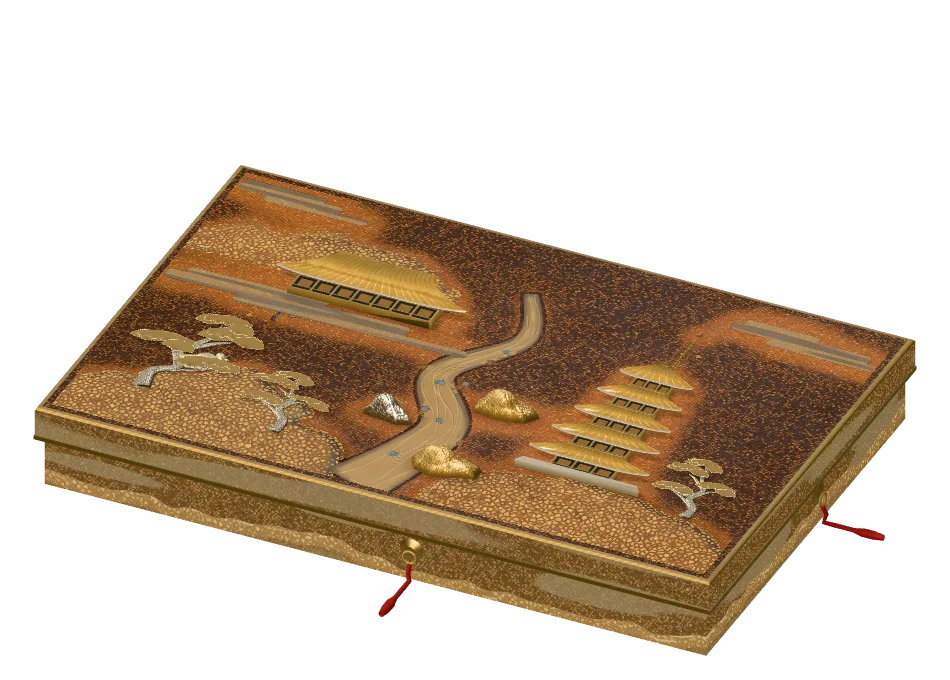
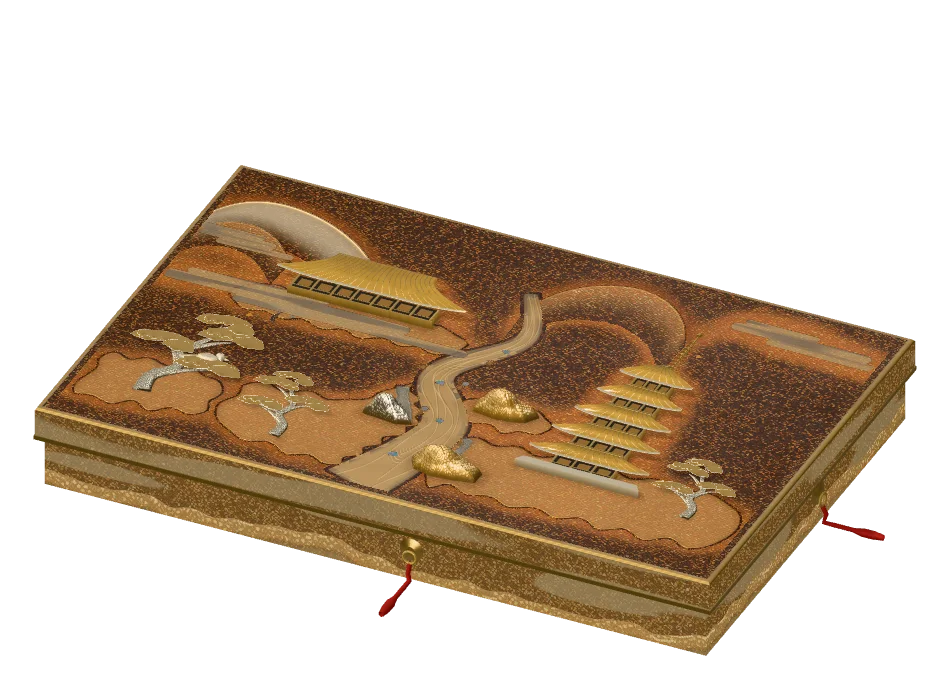
feat(plate): Minami and Ukyo rebuilt with distant mountains and shores in place of hills and the platform (nine wards, batch 2a)
Checkpoint. Known and carried into the next run: the west shore of Minami reads as scattered islands, the shore outlines ripple at an even pitch, the silver waterline in Ukyo runs past the gold shore.

diff --git a/src/studies/toji/plate/minami.js b/src/studies/toji/plate/minami.js
@@ -1,6 +1,11 @@
 // 南区・東寺. A composition, not a survey: the pagoda on its bank, the hall half lost in mist,
 // a stream between two banks, pines in the foreground. A third of the ground stays empty nashiji.
-import {MAT, hill, stream, streamEdge, suyari, rock, pagoda, hall, stampedPine as pine, bird, shell, grassTufts, silverPlum} from './vocab.js';
+// The ground (doha.js) is drawn piece by piece, every outline written here as control points:
+//   the range    three low heads at the far upper left, behind the hall (the hall's roof lies against the lacquer below the crest).
+//   the shores   a scalloped tongue under the hall, one under each pine group on the west and one broad one under the pagoda
+//                on the east, each reaching to the water; a thin silver ribbon lies along the waterline on each side.
+import {MAT, stream, streamEdge, suyari, rock, pagoda, hall, stampedPine as pine, bird, shell, grassTufts, silverPlum} from './vocab.js';
+import {mountain, tongues} from './doha.js';
 
 // The stream's own points and widths, kept here so its banks can be found again for the grass.
 const STREAM = [[[-8, -150], [22, -70], [-30, 20], [14, 110], [-26, 232]], [7, 11, 17, 25, 36]];
@@ -10,12 +15,47 @@ function bankTuft(t, side, h, n, flower = false) {
   return [x - side * 2.5, z, h, n, -side * .2, flower];
 }
 
+// The far range at the upper left, far to near. Why: the temple stands in the south of the city under a low line of hills; the lowest
+// reads as the far horizon, and the stream rises out of the foot of the near one.
+const RANGE = [
+  // 1 (blue-gold, the farthest) at the far left, beyond the hall's west end: a full arc with its peak toward the left
+  {ridge: [[-372, -122], [-358, -160], [-332, -186], [-296, -194], [-250, -184], [-206, -160], [-170, -128]], depth: 66, tone: 'blue'},
+  // 2 (gold) the tallest, right of the hall over the stream's head: the stream rises at its foot; the hall's roof lies in the saddle between 1 and 2
+  {ridge: [[0, -130], [16, -164], [44, -192], [84, -206], [122, -196], [152, -168], [170, -132]], depth: 66},
+  // 3 (gold) a small head in front of the first, at the lid's left edge
+  {ridge: [[-372, -100], [-358, -124], [-338, -142], [-312, -146], [-286, -136], [-266, -118], [-250, -100]], depth: 44},
+];
+// The shores, far to near. Each outline is written round the piece, one point per bend (sharp coves, round lobes).
+const SHORES = [
+  // west, under the hall: a long low tongue the hall stands on, ending at the water above the first bend
+  {p: [[-276, -40], [-262, -52], [-244, -56], [-224, -51], [-204, -58], [-182, -53], [-160, -60], [-136, -54], [-112, -59], [-88, -52], [-64, -57], [-44, -50], [-28, -42],
+    [-30, -28], [-36, -17], [-52, -10], [-70, -16], [-88, -8], [-108, -14], [-130, -6], [-150, -13], [-172, -5], [-194, -12], [-214, -4], [-236, -11], [-256, -6], [-272, -16], [-282, -28]], tone: 'gold', seed: 41},
+  // west, under the far pine: a round tongue off the lid's left edge, lower edge in broad waves
+  {p: [[-350, 132], [-340, 120], [-322, 124], [-304, 114], [-284, 122], [-264, 112], [-244, 120], [-226, 124], [-214, 140], [-220, 158], [-214, 176], [-228, 190],
+    [-248, 184], [-266, 198], [-288, 190], [-308, 204], [-330, 196], [-348, 200], [-354, 178], [-346, 154]], tone: 'gold', seed: 42},
+  // west, under the near pine and the grey stone: reaches up the west side of the water as a narrow arm
+  {p: [[-198, 118], [-180, 107], [-158, 114], [-134, 103], [-112, 111], [-90, 100], [-74, 90], [-68, 74], [-58, 62], [-50, 50], [-45, 46],
+    [-43, 60], [-28, 70], [-31, 80], [-17, 90], [-20, 100], [-11, 110], [-21, 120], [-17, 132], [-32, 146], [-29, 158], [-43, 170], [-40, 182], [-54, 194], [-52, 206],
+    [-68, 210], [-88, 202], [-110, 212], [-134, 200], [-158, 208], [-182, 196], [-198, 182], [-206, 160], [-196, 138]], tone: 'gold', seed: 43},
+  // the silver waterline on the west arm, laid over the gold: a hand's breadth between the gold and the water
+  {p: [[-48, 56], [-41, 68], [-36, 80], [-27, 91], [-23, 103], [-20, 112], [-30, 114], [-37, 102], [-43, 90], [-50, 78], [-56, 66], [-58, 58]], tone: 'silver', seed: 44},
+  // east, a small lobe on the water's side for the first stone
+  {p: [[12, 62], [22, 46], [40, 40], [58, 44], [76, 38], [96, 46], [112, 58], [106, 74], [88, 80], [72, 88], [54, 80], [38, 86], [24, 78]], tone: 'gold', seed: 45},
+  // east, under the pagoda: the broad bank the tower stands on, reaching to the water at its west end
+  {p: [[38, 116], [54, 108], [76, 116], [98, 106], [122, 114], [146, 104], [172, 112], [196, 102], [222, 110], [248, 100], [274, 108], [300, 98], [326, 106], [346, 118], [354, 140],
+    [352, 164], [342, 184], [324, 196], [302, 188], [280, 200], [256, 190], [232, 202], [208, 192], [184, 204], [158, 194], [132, 204], [108, 194], [84, 202], [62, 194], [46, 206], [36, 192], [28, 176], [32, 156], [34, 134]], tone: 'gold', seed: 46},
+  // the silver waterline on the east bank, laid over the gold
+  {p: [[42, 114], [44, 128], [41, 142], [36, 156], [32, 166], [40, 166], [47, 156], [52, 142], [52, 126], [50, 114]], tone: 'silver', seed: 47},
+];
+/** The clusters, for the measuring and checking scripts. */
+const PIECES = {RANGE, SHORES};
+export {PIECES};
+
 export function minami() {
   return [
-    // Layer 0: the ground itself — banks and water. It swells, it does not stand.
-    ...hill('bank-far', -360, -70, -168, -112, 11, {amp: .34, mat: MAT.nashijiLight, humps: 3}),
-    ...hill('bank-left', -372, -52, 92, 214, 23, {amp: .8}),
-    ...hill('bank-right', 44, 372, 118, 214, 31, {amp: .7, mat: MAT.gyobu, humps: 1}),
+    // Layer 0: the range, the shores and the water.
+    ...mountain('range', RANGE),
+    ...tongues('shore', SHORES),
     ...stream('stream', ...STREAM),
     ...shell('shell', [[14, -44, 4.2, 2], [-22, 34, 5, 5], [6, 96, 4.4, 8], [-12, 168, 5.6, 3]]),
     // Grass on both banks: gold line work, two tufts carrying a small silver flower.
@@ -25,7 +65,7 @@ export function minami() {
     // Slot 1: mist and stones.
     ...suyari('mist-hall', -360, -18, -34, 17, 5),
     ...suyari('mist-sky', 196, 372, -186, 15, 9),
-    ...suyari('mist-far', -372, -210, -206, 13, 14),
+    ...suyari('mist-far', -372, -250, -118, 13, 14),
     ...rock('rock-a', 62, 62, 34, 22, 3),
     ...rock('rock-b', -44, 112, 27, 18, 8, {mat: MAT.kirigin}),
     ...rock('rock-c', 48, 178, 38, 24, 6),

diff --git a/src/studies/toji/plate/ukyo.js b/src/studies/toji/plate/ukyo.js
@@ -1,16 +1,60 @@
 // Borrowed scenery in three depths: the near hall looks across a broad pond to rocks and a distant ridge.
 // The empty foreground below the hall lets the eye cross the water before climbing into the mountain.
-import {MAT, gardenGround, hill, pond, hall, branchPine as pine, branchMaple as maple, fallenLeaves, bird, rock, suyari} from './vocab.js';
+// The ground (doha.js) is drawn piece by piece, every outline written here as control points:
+//   Arashiyama   ONE body of four rounded heads at the upper right, behind the pond: the borrowed scenery itself. Its tallest head stands
+//                over the pond's middle, clear of the pines, so that the view from the hall across the water ends in the peak.
+//   Kameyama     two low pale heads at the far upper left, over the hall's west end.
+//   the shores   a long bank in front of the hall, a crescent along the pond's north (the stones), a tongue under each pine and the
+//                maple; a thin silver waterline laid over the north crescent.
+import {MAT, pond, hall, branchPine as pine, branchMaple as maple, fallenLeaves, bird, rock, suyari} from './vocab.js';
+import {mountain, tongues} from './doha.js';
+
+// Arashiyama, far to near. Why: the mountain is what the garden borrows; the farthest head is the paler, the tallest stands behind the pond.
+const ARASHIYAMA = [
+  // 1 (blue-gold, the farthest) behind the pond's west half: a full arc, its peak a little right of the middle
+  {ridge: [[-60, -120], [-44, -152], [-18, -180], [20, -190], [62, -182], [100, -156], [126, -122]], depth: 78, tone: 'blue'},
+  // 2 (gold) the tallest, over the pond's east half: climbs slowly from the left, falls steeply at the right
+  {ridge: [[60, -124], [90, -160], [128, -192], [170, -214], [212, -218], [250, -196], [282, -144]], depth: 104},
+  // 3 (gold) in front on the right, the last head of the range, its peak toward the right
+  {ridge: [[222, -110], [240, -138], [262, -152], [286, -146], [306, -160], [334, -150], [352, -122]], depth: 74},
+  // 4 (gold) a low head in front of the first two, over the pond's north bank
+  {ridge: [[-10, -104], [12, -122], [40, -134], [66, -137], [90, -130], [108, -114], [118, -102]], depth: 52},
+];
+// Kameyama, at the far upper left: two low pale heads, the second in front and to the right of the first.
+const KAMEYAMA = [
+  {ridge: [[-372, -124], [-366, -152], [-350, -170], [-324, -176], [-290, -164], [-250, -146], [-214, -124]], depth: 54, tone: 'blue'},
+  {ridge: [[-270, -114], [-246, -128], [-220, -140], [-190, -150], [-160, -162], [-134, -146], [-114, -116]], depth: 46},
+];
+// The shores, far to near. Each outline is written round the piece, one point per bend (sharp coves, round lobes).
+const SHORES = [
+  // west, under the old pine behind the hall: a lobe with a bay in its lower edge
+  {p: [[-346, -52], [-332, -74], [-312, -82], [-292, -92], [-270, -80], [-250, -88], [-230, -70], [-222, -56], [-238, -44], [-258, -50], [-276, -38], [-298, -46], [-322, -36], [-342, -40]], tone: 'gold', seed: 51},
+  // east, under the pine at the pond's back right: reaches round the pond's north-east corner
+  {p: [[212, -72], [228, -92], [252, -100], [274, -92], [298, -104], [322, -94], [344, -80], [352, -56], [342, -36], [322, -26], [300, -34], [282, -20], [266, -32], [244, -48], [226, -58]], tone: 'gold', seed: 52},
+  // north: the crescent along the pond's back where the two stones lie, thick in the middle, its lower edge on the water
+  {p: [[-8, -2], [8, -30], [3, -46], [22, -58], [30, -76], [54, -80], [76, -72], [98, -90], [122, -82], [146, -98], [172, -86], [198, -94], [220, -80], [244, -66], [262, -44], [280, -22], [284, 12],
+    [268, -14], [255, -38], [239, -44], [222, -64], [196, -67], [170, -76], [143, -69], [120, -69], [96, -54], [75, -52], [55, -36], [36, -33], [16, -15], [2, -7], [-8, 12]], tone: 'gold', seed: 53},
+  // the silver waterline on the north crescent, laid over the gold: a hand's breadth between the gold and the water
+  {p: [[46, -38], [58, -48], [72, -46], [84, -56], [98, -60], [110, -58], [124, -68], [138, -72], [150, -74], [164, -68], [178, -76], [192, -72], [206, -66], [220, -58], [232, -48], [228, -62], [214, -76], [204, -84], [190, -82], [176, -90], [160, -84], [146, -88], [130, -82], [116, -90], [102, -82], [88, -78], [74, -68], [58, -60]], tone: 'silver', seed: 54},
+  // the long bank in front of the hall: the veranda stands on it; its right end reaches the pond's west tip
+  {p: [[-332, 100], [-318, 86], [-296, 92], [-272, 80], [-248, 90], [-222, 78], [-196, 88], [-170, 76], [-144, 86], [-118, 76], [-92, 86], [-66, 78], [-40, 88], [-22, 92], [-10, 104], [-2, 114],
+    [-14, 124], [-36, 118], [-58, 128], [-84, 120], [-110, 130], [-136, 122], [-162, 132], [-188, 124], [-214, 134], [-240, 124], [-266, 134], [-292, 124], [-318, 132], [-334, 122], [-340, 110]], tone: 'gold', seed: 55},
+  // south, under the red maple: a round tongue in the near corner where the leaves fall
+  {p: [[212, 166], [236, 172], [258, 168], [282, 176], [306, 168], [330, 180], [344, 198], [336, 214], [314, 222], [292, 214], [268, 224], [244, 216], [222, 224], [204, 212], [196, 190]], tone: 'gold', seed: 56},
+];
+/** The clusters, for the measuring and checking scripts. */
+const PIECES = {ARASHIYAMA, KAMEYAMA, SHORES};
+export {PIECES};
 
 export function ukyo() {
   return [
-    ...gardenGround('hojo-bank', [[-330, -192], [-82, -204], [-38, -25], [-44, 110], [-315, 128]]),
-    ...hill('arashiyama', -35, 355, -215, -96, 6, {amp: .65, humps: 3}),
-    ...hill('west-ridge', -350, -80, -192, -133, 2, {amp: .3, mat: MAT.nashijiLight}),
+    ...mountain('arashiyama', ARASHIYAMA),
+    ...mountain('kameyama', KAMEYAMA),
     ...pond('sogen', 143, 49, 160, 115, 5),
+    ...tongues('shore', SHORES),
     ...fallenLeaves('near-leaves', 238, 196, 96, 26, 14, 4),
-    ...suyari('mist-ridge', -330, -107, -201, 12, 4),
-    ...suyari('mist-pond', 45, 235, -123, 12, 8),
+    ...suyari('mist-ridge', -350, -190, -122, 12, 4),
+    ...suyari('mist-pond', 130, 330, -112, 12, 8),
     ...suyari('mist-near', -310, -115, 157, 14, 3),
     ...rock('dragon-stone', 65, -55, 38, 22, 3),
     ...rock('shore-stone', 140, -48, 24, 20, 7, {mat: MAT.kirigin}),

diff --git a/docs/agent-runs/2026-11-16-nine-wards.md b/docs/agent-runs/2026-11-16-nine-wards.md
@@ -109,3 +109,78 @@
 ## 回退
 
 `git checkout -- src/studies/toji/plate/higashiyama.js src/studies/toji/plate/kita.js scripts/plate.test.mjs scripts/plate-doha-similar.mjs src/studies/toji/plate/static/W_HIGASHIYAMA.* src/studies/toji/plate/static/W_KITA.*`；刪除本檔。
+
+# 第二批之一：南、右京（分支 agent/nine2a-1116）
+
+請求模型 Sonnet 5.5；實際設定未確認。未 commit。改動：`minami.js`、`ukyo.js`（CRLF 保留）、`scripts/plate.test.mjs`（兩區加入 dohaWards／nineWards、部件數 55／29、岩總數）、`scripts/plate-doha-similar.mjs`（對照表）、`scripts/plate-doha-measure.mjs`（新增 `longestStraightPieces`：直線檢查只看新部件，因為南區舊岩 38.8 超過 30 而岩不可動）、`static/W_MINAMI.*`、`W_UKYO.*`。
+
+## 理由
+
+| 區 | 件 | 理由 |
+|---|---|---|
+| 南 | 山1（青金，左，大） | 金堂西端後的遠景；峰在屋頂左外，不被擋 |
+| 南 | 山2（金，最高，右） | 流水從其腳下升起；塔尖在其右腳，互相露出；金堂屋頂落在1與2之間的鞍部，靠漆地襯出 |
+| 南 | 山3（金，小，左緣前） | 給山1疊成一個山體 |
+| 南 | 西岸三片（金堂下長舌、遠松下、近松＋岩 b 下並向上延成沿水細臂） | 金堂與兩松站在岸上，各自到水邊 |
+| 南 | 東岸兩片（岩 a 下小瓣、塔下寬岸） | 塔站在寬岸上；小瓣讓岩 a 有地 |
+| 南 | 銀兩條 | 只壓在金岸上沿水的細帶（西、東各一） |
+| 右京 | 嵐山4頭（青金最遠、最高金、右前雙峰、前低小頭） | 借景本身；最高峰在池東半上方，池方向看過去無遮擋；右松在峰右側 |
+| 右京 | 龜山2頭（青金、金低） | 左上遠處、方丈西端上方 |
+| 右京 | 洲浜：西松下、東北角松下、池北新月（龍石、岸石）、南楓下 | 池四周；加大方丈前一條長岸（右端到池西尖） |
+| 右京 | 銀一條 | 池北新月下緣的水線，壓在金上 |
+
+## 數字（`plate-doha-measure.mjs`）
+
+| | 南 | 右京 |
+|---|---|---|
+| 山頭／岸片（含銀） | 3／7 | 6／6 |
+| 山＋岸＋岩（格點，扣重疊） | 27.1% | 23.2% |
+| 留白的地／最大連通塊 | 57.4%／71.5% | 50.9%／97.5% |
+| 最大單片 | 8.56%（塔下寬岸） | 4.17% |
+| 銀的片（非遠山） | 2／7 | 1／6 |
+| 最長直線（新部件） | 27.9 | 28.2 |
+| 岩（腳本數 rock-*） | 3 | 0（兩岩名為 dragon-stone、shore-stone） |
+
+相似度：南 山 0.093（門檻 0.06）、岸 0.078（0.065）；右京 山 0.078（0.065）、岸 0.118（0.063）。穿插 `plate-clip.mjs`：十一區 ground／pairs 皆空。
+
+## 三層調子（日 L50；夜）
+
+| | 地 | 濃梨子地 | 圖案 |
+|---|---|---|---|
+| 南 修前 | 32；24 | 52；41 | 63；44 |
+| 南 修後 | 35；27 | 54；43 | 69；46 |
+| 右京 修前 | 29；23 | 55；46 | 60；40 |
+| 右京 修後 | 34；26 | 56；45 | 66；44 |
+
+切金（日／夜）：南 1.3%→1.3%／0.8%→0.3%；右京 3.0%→2.0%／2.7%→1.5%。
+
+## 烘焙與效能
+
+- bakeMs（三次）：南 修前 206／206／208，修後 224／227／224（+18）；右京 修前 85／83／89，修後 134／137／130（+48）。皆在 +60 內。
+- 換區最長幀（375×812、CPU×4，四次，ms）：南 修前 179／171，修後 233／179／179／233；右京 修前 200／196，修後 254／200／263／254。量值呈階梯狀、雜訊大；**右京修後中位數約 +30%，超過 10% 門檻**，南約 +18%。原因是烘焙時間增加（右京六頭＋六片）；把山的 depth 縮小後烘焙沒有變（138–144），所以不是 depth。要降只能減部件，會違反開案書的頭數，留給使用者決定。
+
+## 驗收
+
+lint exit 0；validate --strict ERROR 0／WARN 0；npm test 140/140 與 17/17；build 通過。降級圖只留 W_MINAMI、W_UKYO。
+
+## 每張圖看到什麼（`.shots/nine/minami/`、`ukyo/`）
+
+- 南：日夜並排。金堂與塔比以前突出（修前它們站在一整塊平坡上）；左上一座青金圓山、塔右後一座金色圓山露出塔尖旁；兩側岸是分開的扇貝島，帶深色輪廓邊；流水兩側的岸與水貼合。不對的地方：(1) 左下三塊岸像散落的小島，邊緣暗線偏重；(2) 金堂下的岸被屋與霞幾乎遮掉，只剩灰褐細帶；(3) 東岸的銀細帶幾乎看不出；(4) 金堂左側山頭的山腳有暗三角（已知問題）。
+- 右京：池北的新月岸與銀水線、兩顆岩讀得出來；嵐山是池後一座淡青圓山加後面的暖金山體，從池看過去峰不被擋；方丈前一條長岸。不對的地方：(1) 金色山頭在這個光下偏暗橙，不如淡青那座醒目，嵐山作為主角還不夠突出，只是比以前（扁丘）像山；(2) 青金頭像灰色月牙；(3) 銀水線在池右端伸出金岸外一小段。
+- 放大圖：`*-zoom-mountain.png`、`*-zoom-shore.png`（PLATE_CENTER 在這台機器沒有真的置中，目標在畫面內）。
+
+## 自審
+
+1. 第一版山頭形都近似對稱，相似度不過（南 0.046、右京 0.021）→ 改峰位與高寬比。
+2. 峰不對稱過頭變成斜坡、南區主峰藏在金堂屋頂後 → 南區改成「左大右高、屋頂在鞍部」，右京放回較圓的頭。
+3. 直線 >30（水邊的岸與新月下緣）→ 水邊加扇貝；銀帶加彎。右京山加大 depth 以增加可見面積。
+拿掉：南的低頭放在屋後會被擋，移到左緣。
+
+## 沒做到
+
+- 右京換區最長幀超過門檻（見上）。
+- 岩原樣；南區舊岩的直線 38.8 讓 `longestStraight` 超過 30，因此改以新部件的 `longestStraightPieces` 驗。
+
+## 回退
+
+`git checkout -- src/studies/toji/plate/minami.js src/studies/toji/plate/ukyo.js scripts/plate.test.mjs scripts/plate-doha-measure.mjs scripts/plate-doha-similar.mjs src/studies/toji/plate/static/W_MINAMI.* src/studies/toji/plate/static/W_UKYO.*`；刪除本節。
